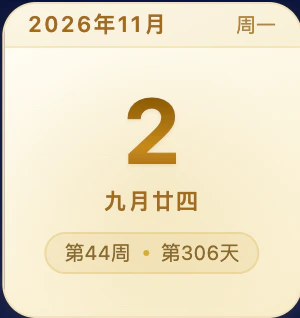
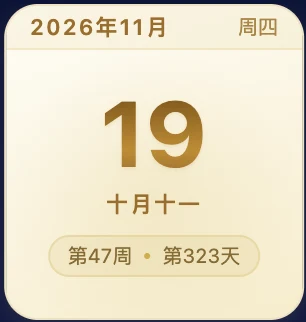
feat: 更新插件地址和组件截图

diff --git a/index.html b/index.html
@@ -228,18 +228,18 @@
               <figcaption><strong>热榜</strong><span>百度 / 微博 / 抖音</span></figcaption>
             </figure>
             <figure class="gallery-card">
-              <div class="gallery-thumb"><img src="assets/img/gallery-holiday.webp" alt="假期倒计时小组件截图：元旦还有 60 天" loading="lazy" width="298" height="126" /></div>
+              <div class="gallery-thumb"><img src="assets/img/gallery-holiday.webp" alt="假期倒计时小组件截图：距元旦还有 43 天" loading="lazy" width="308" height="124" /></div>
               <figcaption><strong>假期倒计时</strong><span>距下个假期</span></figcaption>
             </figure>
           </div>
 
           <div class="gallery-row gallery-row--square">
             <figure class="gallery-card">
-              <div class="gallery-thumb"><img src="assets/img/gallery-memo.webp" alt="备忘录小组件截图：待办与灵感记录" loading="lazy" width="300" height="320" /></div>
+              <div class="gallery-thumb"><img src="assets/img/gallery-memo.webp" alt="备忘录小组件截图：空状态，提示点击添加备忘" loading="lazy" width="310" height="330" /></div>
               <figcaption><strong>备忘录</strong><span>待办与灵感</span></figcaption>
             </figure>
             <figure class="gallery-card">
-              <div class="gallery-thumb"><img src="assets/img/gallery-calendar.webp" alt="日历小组件截图：公历、农历、周数与年度进度" loading="lazy" width="300" height="318" /></div>
+              <div class="gallery-thumb"><img src="assets/img/gallery-calendar.webp" alt="日历小组件截图：2026 年 11 月 19 日，农历十月十一，第 47 周" loading="lazy" width="306" height="322" /></div>
               <figcaption><strong>日历</strong><span>农历、周数与进度</span></figcaption>
             </figure>
             <figure class="gallery-card">
@@ -538,14 +538,14 @@
           <p class="install-lead">安装后，每次新建标签页都会打开星屿。设置与数据只保存在本机；换电脑时，可以用导出 / 导入备份手动迁移。</p>
 
           <div class="install-actions">
-            <!-- TODO: 上架后把 href 换成商店正式链接，并移除 is-disabled / aria-disabled -->
-            <a class="btn btn-primary is-disabled" href="#" aria-disabled="true" title="Chrome 应用商店即将上架">
+            <a class="btn btn-primary" href="https://microsoftedge.microsoft.com/addons/detail/%E6%98%9F%E5%B1%BF%C2%B7%E6%96%B0%E6%A0%87%E7%AD%BE%E9%A1%B5/baohjhkjmodnbbggdkomdagpandkgibg?hl=zh-CN" target="_blank" rel="noopener noreferrer">
+              <svg class="icon" aria-hidden="true"><use href="#i-download"/></svg>
+              Edge 加载项 · 免费安装
+            </a>
+            <!-- TODO: Chrome 上架后把 href 换成商店正式链接，并移除 is-disabled / aria-disabled -->
+            <a class="btn btn-ghost is-disabled" href="#" aria-disabled="true" title="Chrome 应用商店即将上架">
               <svg class="icon" aria-hidden="true"><use href="#i-download"/></svg>
               Chrome 商店 · 即将上架
-            </a>
-            <a class="btn btn-ghost is-disabled" href="#" aria-disabled="true" title="Edge 加载项即将上架">
-              <svg class="icon" aria-hidden="true"><use href="#i-download"/></svg>
-              Edge 加载项 · 即将上架
             </a>
             <a class="btn btn-ghost" href="mailto:xingyu_email2026@163.com?subject=星屿·新标签页反馈">
               <svg class="icon" aria-hidden="true"><use href="#i-mail"/></svg>
@@ -553,7 +553,7 @@
             </a>
           </div>
 
-          <p class="install-note">当前版本 v1.0.0 · 需要 Chrome 116 或更高版本 · Manifest V3 · <a href="privacy.html">隐私政策</a> · <a href="terms.html">用户协议</a></p>
+          <p class="install-note">当前版本 v1.0.0 · 需要 Chrome / Edge 116 或更高版本 · Manifest V3 · <a href="privacy.html">隐私政策</a> · <a href="terms.html">用户协议</a></p>
         </div>
       </section>
     </div>
